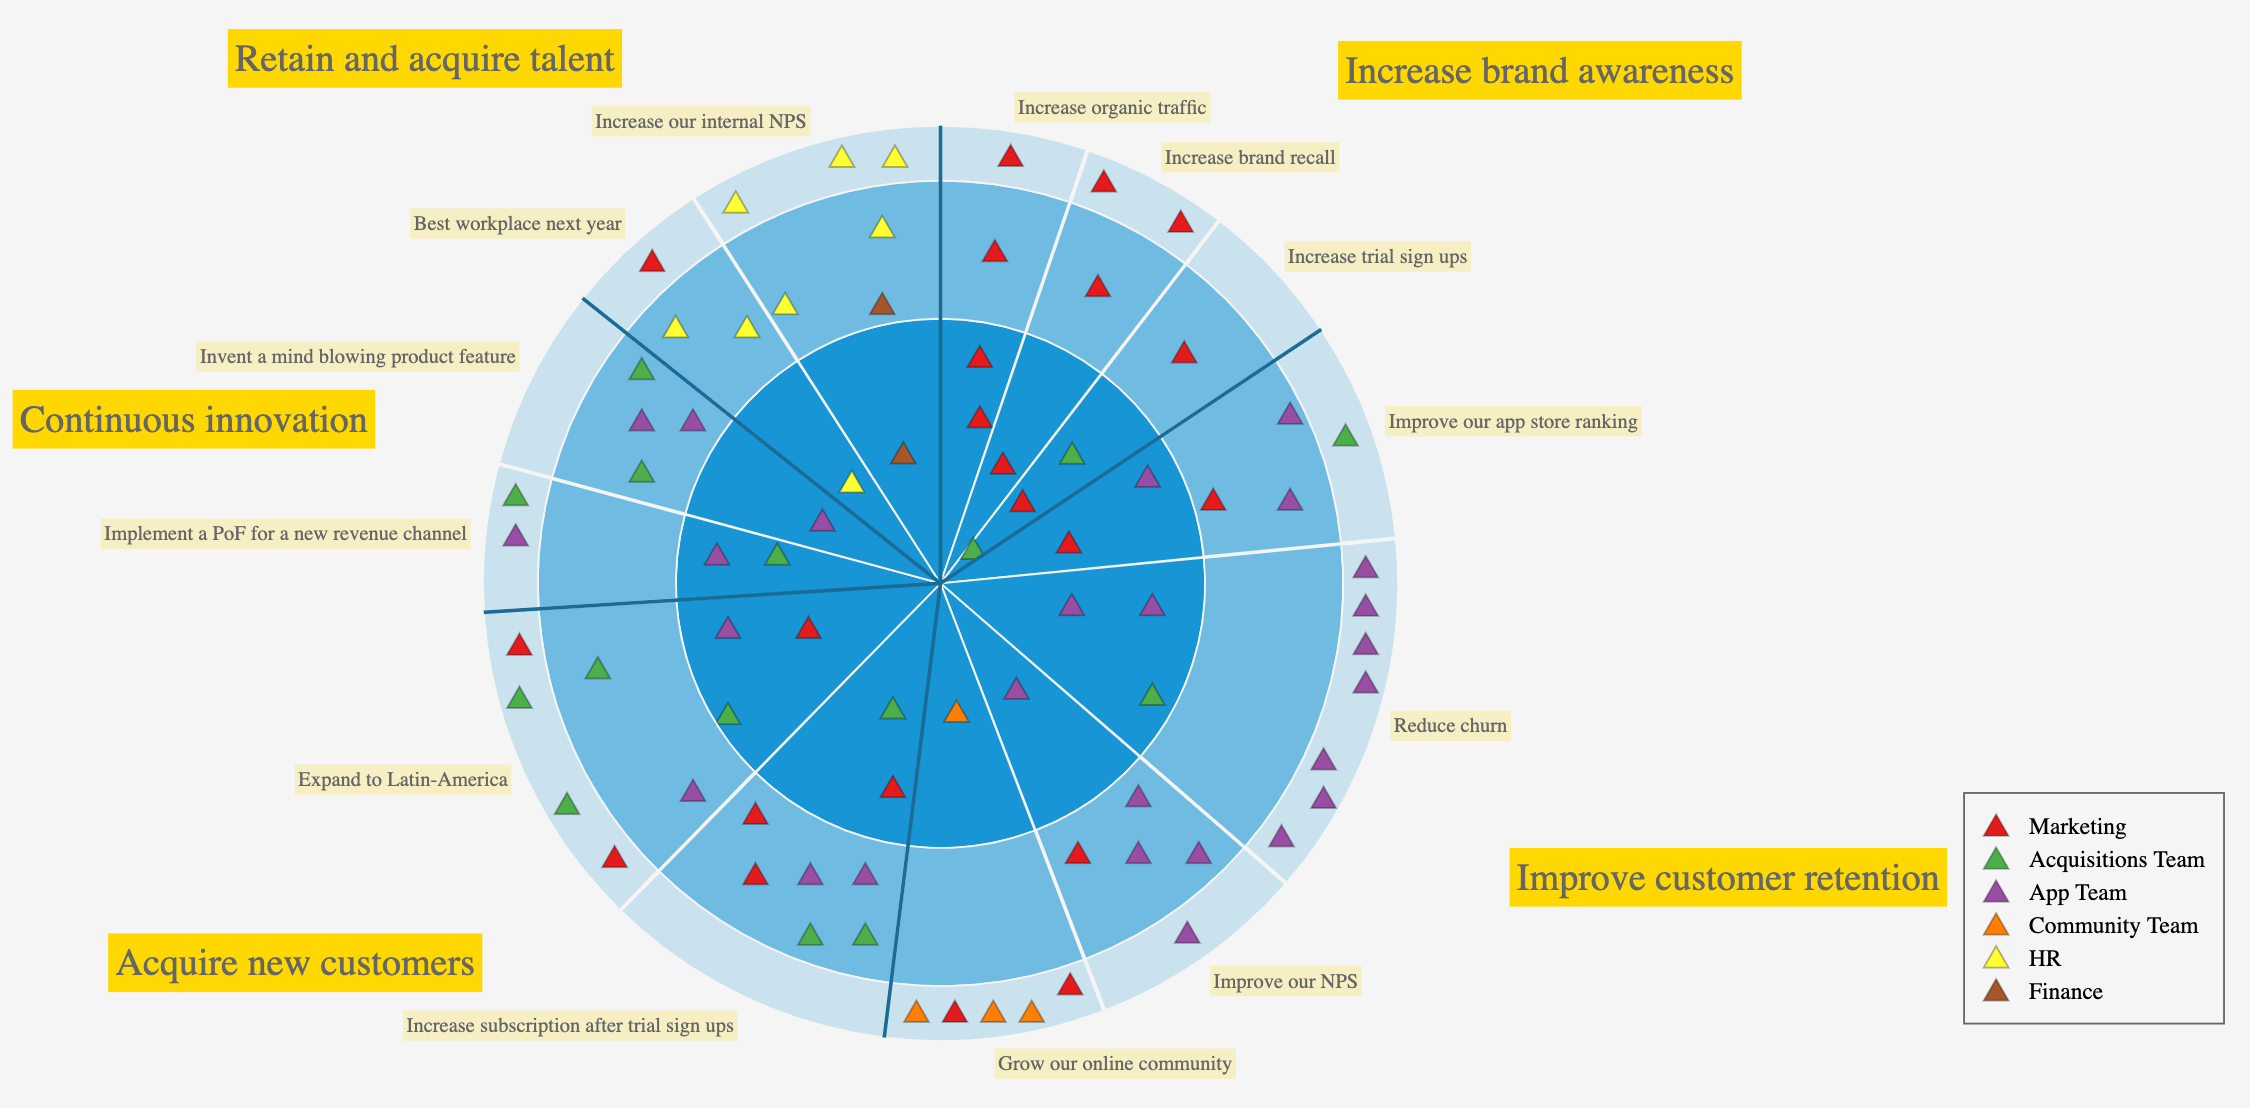
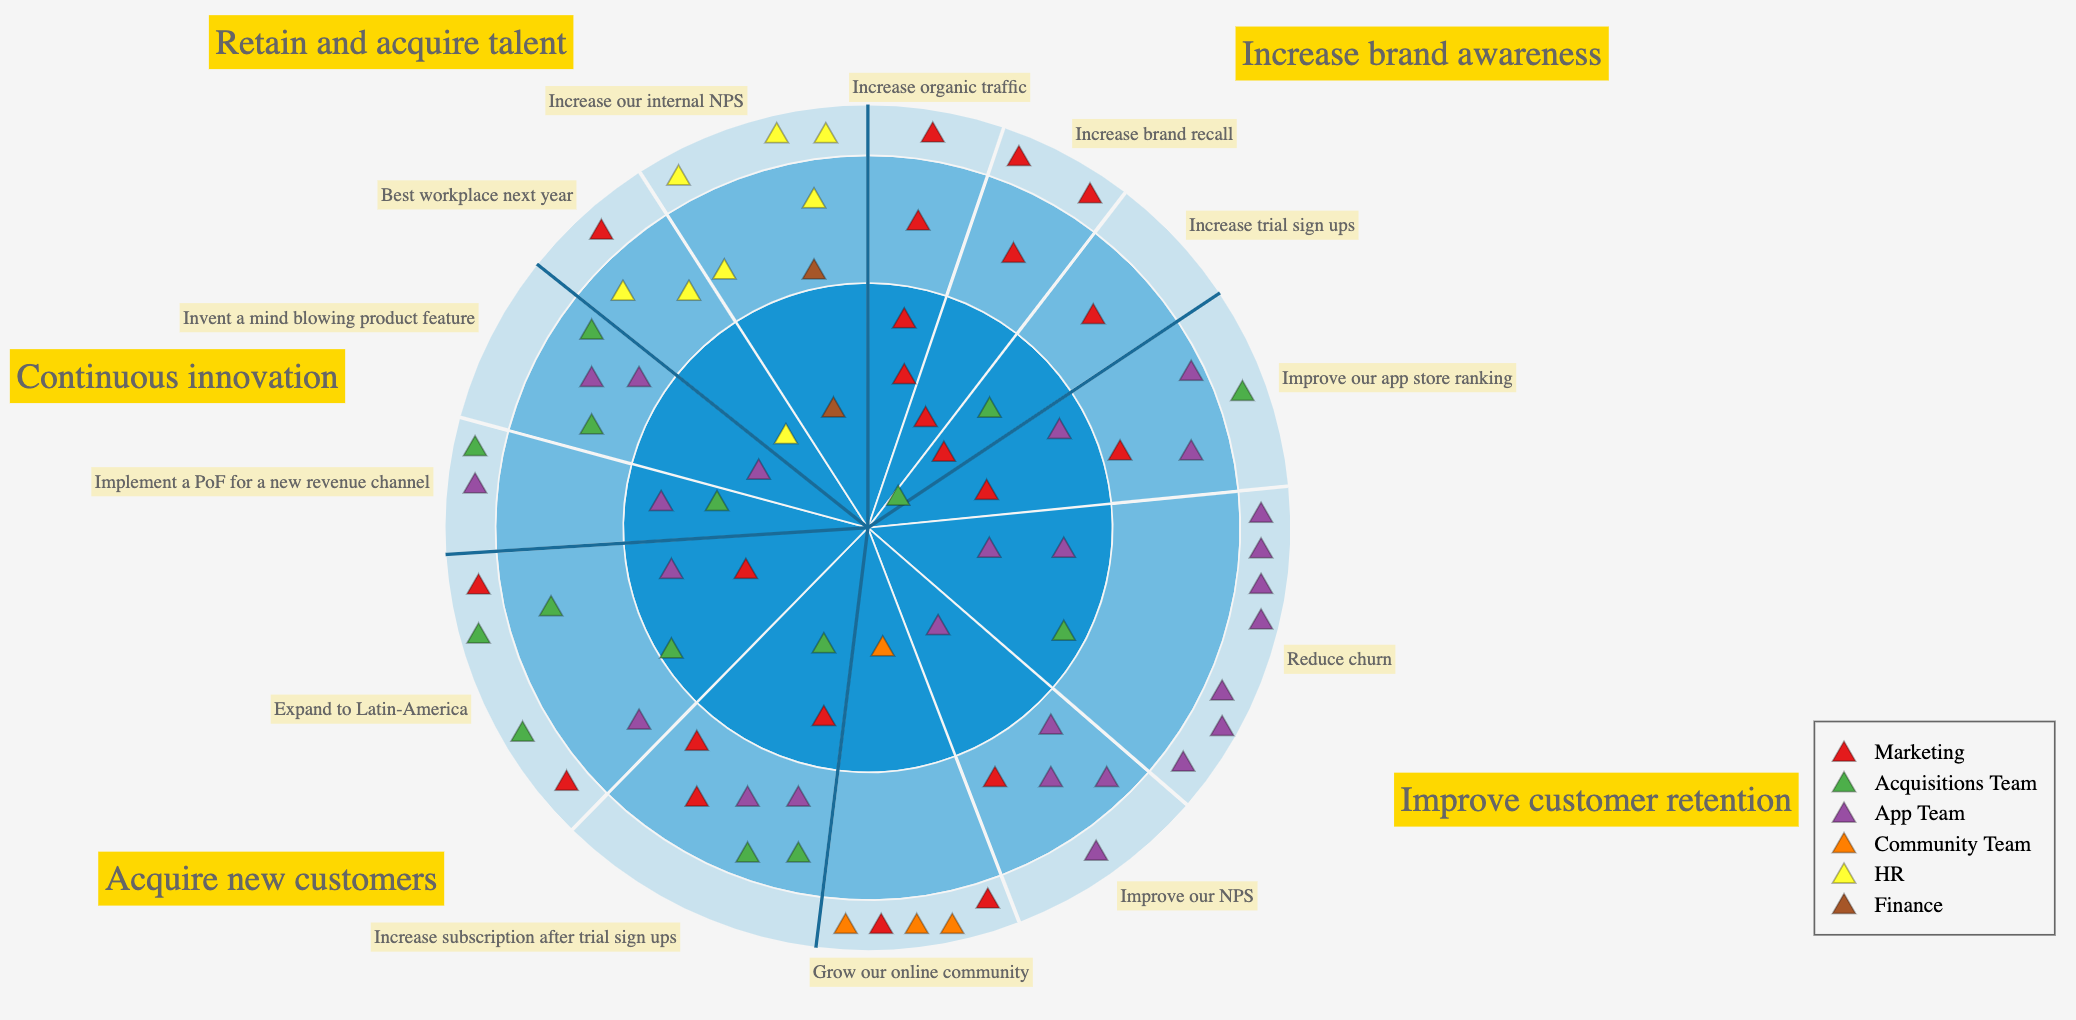
techradar example tweak + update example scrshots

Changed region(s): [[0.0, 0.0, 0.7399, 0.9725], [0.6474, 0.699, 1.0, 0.9422], [0.5857, 0.0, 0.7707, 0.0912]]

diff --git a/src/DataSource/Example.ts b/src/DataSource/Example.ts
@@ -78,7 +78,7 @@ export class Example {
           ringPadding: 4,
           sliceDividerOutFlowLength: -245,
           sliceLabelPadding: 12,
-          subSlicePadAngle: 4,
+          subSlicePadAngle: 2,
           itemMarker: { size: 80 },
         },
       },
